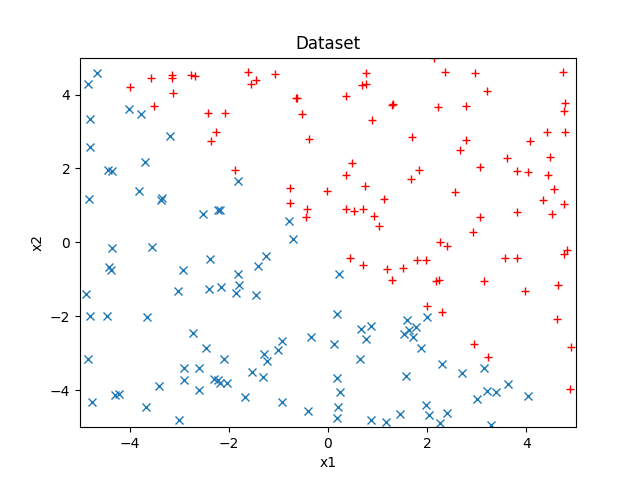
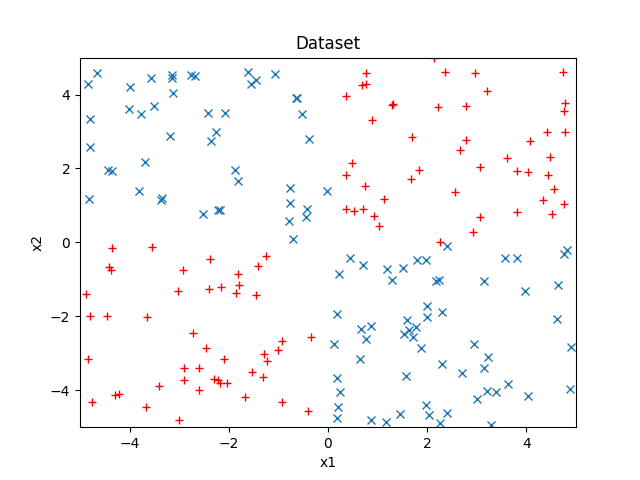
Make compute gradient back propagation

diff --git a/neural_network/code/neural_network.py b/neural_network/code/neural_network.py
@@ -102,29 +102,32 @@ class NeuralNetwork:
         weights_gradient[2] = np.zeros((self.num_outputs, self.num_hiddens))
         biases_gradient[1] = np.zeros((self.num_hiddens, 1))
         biases_gradient[2] = np.zeros((self.num_outputs, 1))
-        # Add logic to compute the gradients
 
         num_cases = len(inputs)
         outputs = [None] * num_cases
+
         for i in range(num_cases):
+
             z, a = self.forward_propagation(inputs[i])
             outputs[i] = a[-1]
 
             y = expected_outputs[i]
-            yHat = outputs[i]
+            y_hat = outputs[i]
+            inp = inputs[i]
 
+            dz2 = y_hat - y
+            dw2 = (1 / num_cases) * np.dot(dz2, np.transpose(a[1]))
+            db2 = (1 / num_cases) * np.sum(dz2, axis=1)
 
-            delta3 = np.multiply(-(y-yHat), sigmoid_derivative(z[2]))
-            dJdW2 = np.dot(np.transpose(a[1]), delta3)
+            dz1 = np.multiply(np.dot(np.transpose(self.weights[2]), dz2), 1 - np.power(a[1], 2))
+            dw1 = (1 / num_cases) * np.dot(dz1, np.transpose(inp))
+            db1 = (1 / num_cases) * np.sum(dz1, axis=1)
 
-            delta2 = np.dot(delta3, sigmoid_derivative(z[2]))
-            dJdW1 = np.dot(a[1])
+            biases_gradient[1] += db1
+            biases_gradient[2] += db2
 
-            biases_gradient[1] = np.zeros((self.num_hiddens, 1))
-            biases_gradient[2] = np.zeros((self.num_outputs, 1))
-
-            weights_gradient[1] = dJdW1/num_cases
-            weights_gradient[2] = dJdW2/num_cases
+            weights_gradient[1] += dw1
+            weights_gradient[2] += dw2
 
         return weights_gradient, biases_gradient
 

diff --git a/neural_network/code/test_neural_network.py b/neural_network/code/test_neural_network.py
@@ -6,8 +6,8 @@ from utils import sum_gt_zero, xor
 
 num_cases = 200  # number of auto-generated cases
 num_epochs = 1000  # number of epochs for training
-classification_function = sum_gt_zero  # selects sum_gt_zero as the classification function
-# classification_function = xor  # selects xor as the classification function
+# classification_function = sum_gt_zero  # selects sum_gt_zero as the classification function
+classification_function = xor  # selects xor as the classification function
 # Figure format used for saving figures
 fig_format = 'png'
 # fig_format = 'svg'
